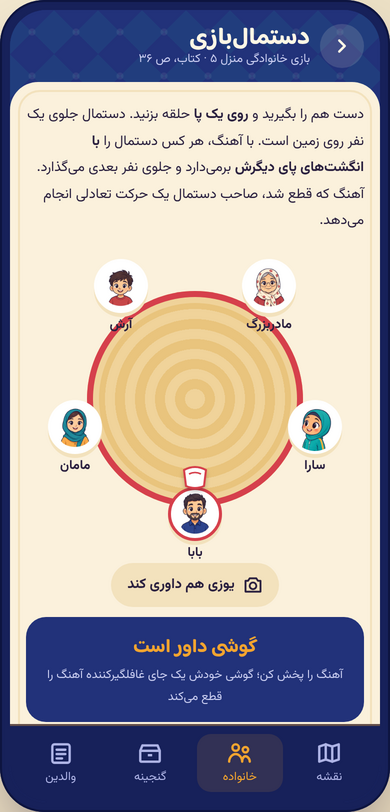
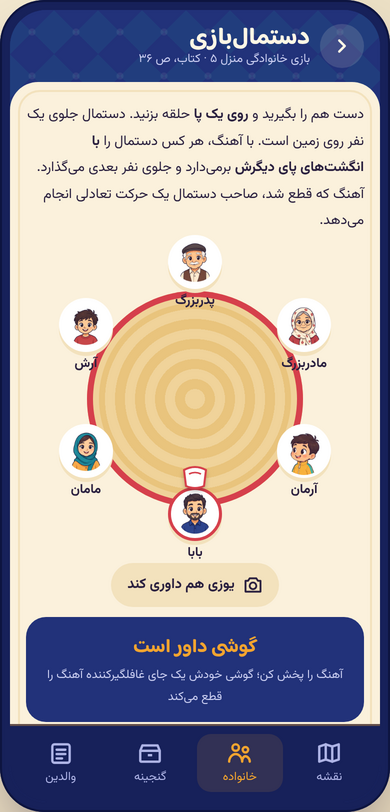
Every drawn character now has a place in the game
- Tapping any khan on the map opens its guardian: proud for a khan
  already passed, challenging for one still closed, with its line.
- Reward: the child's own hero cheers beside Yuzi; comfort: the hero,
  tired, beside a comforting Yuzi.
- Grandpa joins the family circle.
- Yuzi's cheer, talk and comfort images follow his growth stage, so the
  young and grown sheets show once the child gets that far.

All 58 cut images are now referenced (stage-2/3 Yuzi and the guardians'
proud poses appear as the child progresses).

Claude-Session: https://claude.ai/code/session_011aGjsNXPyQZkXG4jDbxjmb

diff --git a/prototype/index.html b/prototype/index.html
@@ -367,6 +367,19 @@ button{font:inherit;color:inherit}
 .pose.withcam{flex-wrap:wrap}
 .private{font-size:11.5px;color:#c9cdf0;text-align:center;margin:-4px 0 0}
 
+/* ---------- guardian card + pairs ---------- */
+.gcard{position:absolute;inset:0;z-index:15;background:rgba(23,33,90,.9);display:flex;align-items:center;justify-content:center;padding:20px}
+.gcard > div{background:var(--paper);color:var(--ink);border-radius:28px;padding:18px 18px 20px;width:100%;max-width:320px;display:flex;flex-direction:column;align-items:center;gap:10px;text-align:center;box-shadow:0 8px 0 var(--paper-2)}
+.gcard img{width:190px;height:190px;object-fit:contain;margin-top:-70px;filter:drop-shadow(0 8px 10px rgba(0,0,0,.25))}
+.gcard h3{margin:0;font-family:var(--f-display);font-size:24px;line-height:1.2}
+.gcard h3 small{display:block;font-family:var(--f-body);font-size:12px;font-weight:500;color:var(--ink-soft)}
+.gcard p{margin:0;font-size:15px;line-height:1.8}
+.gcard .tag{font-size:12px;font-weight:700;padding:3px 10px;border-radius:var(--r-pill);background:var(--paper-2)}
+.gcard .tag.done{background:var(--saffron)}
+.pair{display:flex;align-items:flex-end;justify-content:center;gap:4px}
+.pair img{width:130px;height:130px;object-fit:contain}
+.comfort .pair img{width:130px;height:130px}
+
 /* ---------- hello ---------- */
 .hello{min-height:100%;display:flex;flex-direction:column;align-items:center;gap:14px;padding:22px 18px 28px;text-align:center}
 .hello h2{margin:0;font-family:var(--f-display);font-size:30px;color:var(--saffron);line-height:1.2}
@@ -520,10 +533,10 @@ button{font:inherit;color:inherit}
             </div>
           </div>
         </div>
-        <div class="comfort" id="comfort" hidden><img src="img/yuzi-1-comfort.webp" alt=""><p>اشکال ندارد! هر بار که تمرین کنی، آسانتر میشود.</p></div>
+        <div class="comfort" id="comfort" hidden><div class="pair"><img id="comfortKid" src="img/girl-tired.webp" alt=""><img id="comfortYuzi" src="img/yuzi-1-comfort.webp" alt=""></div><p>اشکال ندارد! هر بار که تمرین کنی، آسانتر میشود.</p></div>
         <div class="reward" id="reward" hidden>
           <canvas id="confetti"></canvas>
-          <img src="img/yuzi-1-cheer.webp" alt="" class="reward-yuzi" id="rewardImg">
+          <div class="pair"><img id="rewardKid" src="img/girl-cheer.webp" alt="" class="reward-yuzi"><img src="img/yuzi-1-cheer.webp" alt="" class="reward-yuzi" id="rewardImg"></div>
           <h3 id="rewardTitle">آفرین پهلوان!</h3>
           <div class="big-torches" id="bigTorches" aria-hidden="true"></div>
           <p id="rewardText">مشعل روز دوم روشن شد. یک روز دیگر تا گذشتن از پلِ لرزان.</p>
@@ -621,6 +634,13 @@ button{font:inherit;color:inherit}
         </div>
       </section>
 
+      <div class="gcard" id="gcard" hidden role="dialog" aria-modal="true" aria-labelledby="gTitle"><div>
+        <img id="gImg" src="" alt="">
+        <span class="tag" id="gTag"></span>
+        <h3 id="gTitle"></h3>
+        <p id="gText"></p>
+        <button class="cta gold" id="gClose" style="width:100%">باشه!</button>
+      </div></div>
       <nav class="nav" aria-label="بخشها">
         <button data-go="map" aria-current="page"><svg viewBox="0 0 24 24" fill="none" stroke="currentColor" stroke-width="2.2" stroke-linecap="round" stroke-linejoin="round"><path d="M9 4L3 6v14l6-2 6 2 6-2V4l-6 2z"/><path d="M9 4v14M15 6v14"/></svg>نقشه</button>
         <button data-go="family"><svg viewBox="0 0 24 24" fill="none" stroke="currentColor" stroke-width="2.2" stroke-linecap="round"><circle cx="8" cy="7" r="3"/><circle cx="17" cy="9" r="2.5"/><path d="M2 20c0-4 3-7 6-7s6 3 6 7M14 20c0-3 1.5-5 3-5s4 2 4 5"/></svg>خانواده</button>
@@ -693,6 +713,8 @@ function voice(id){
 }
 
 /* ---------- data from the book ---------- */
+const GUARD_NAMES = {rooster:'خروسِ سحر', gazelle:'آهوی تیزپا', stork:'لکلکِ نگهبانِ پل', cat:'گربهٔ ایرانی', ibex:'بزِ کوهی', rakhsh:'رخش', simorgh:'سیمرغ'};
+const GUARD_LINES = {rooster:'صاف بایست، بدن را بیدار کن!', gazelle:'بدو، بپر، تیزپا شو!', stork:'روی یک پا بایست و نیفت!', cat:'بدنت را مثلِ من نرم و کش بده!', ibex:'توپ را بگیر و با پا هدایتش کن!', rakhsh:'قلبت را قوی کن و با من بدو!', simorgh:'به جشنِ بازیهای سرزمینم خوش آمدی!'};
 const KHANS = [
   {name:'بیدارِ بدن', lessons:['درک حرکت','وضعیتهای بدنی درست'], icon:'sun', guard:'rooster'},
   {name:'دشتِ تیزپاها', lessons:['راه رفتن، دویدن، پریدن','بدن قوی'], icon:'run', guard:'gazelle'},
@@ -763,6 +785,7 @@ const kidName = () => (state.profile && state.profile.name) || 'قهرمان';
 const khansPassed = () => CURRENT;
 const yuziStage = () => khansPassed() >= 7 ? 3 : khansPassed() >= 3 ? 2 : 1;
 const YUZI_NAMES = ['','تولهیوز','یوزِ جوان','یوزِ تیزپا'];
+const yz = pose => `img/yuzi-${['idle','cheer','talk','comfort'].includes(pose) ? yuziStage() : 1}-${pose}.webp`;
 const doneDays = () => state.days.filter(Boolean).length;
 const practicedToday = () => state.days.some(d => d && d.date === dayKey());
 const secs = n => fa(n.toFixed(1)).replace('.', '٫');
@@ -798,7 +821,7 @@ function drawMap(){
     b.innerHTML = `<span class="medal"><span class="num">${fa(i+1)}</span><img src="img/${k.guard}-greet.webp" alt="">${i>CURRENT?`<span class="lock">${LOCK}</span>`:''}</span>
       <span class="label">${k.name}</span><span class="sub">${k.lessons.join(' · ')}</span>`;
     if(i===CURRENT) b.addEventListener('click', ()=>go('khan'));
-    else b.addEventListener('click', ()=>flashNote(i));
+    else b.addEventListener('click', ()=>{ flashNote(i); meetGuardian(i); });
     map.appendChild(b);
   });
   const y = document.createElement('div');
@@ -836,6 +859,17 @@ $('#playTile').addEventListener('click', ()=>{
   if(practicedToday() || doneDays()>=3){ sfx('sleep'); voice('sleep'); const t=$('#playTile'); t.style.animation='shake .35s'; setTimeout(()=>t.style.animation='',400); return; }
   go('ex');
 });
+
+function meetGuardian(i){
+  const k = KHANS[i], passed = i < CURRENT;
+  $('#gImg').src = `img/${k.guard}-${passed ? 'proud' : 'challenge'}.webp`; $('#gImg').alt = GUARD_NAMES[k.guard];
+  $('#gTag').textContent = passed ? 'گذشتی!' : 'هنوز بسته'; $('#gTag').classList.toggle('done', passed);
+  $('#gTitle').innerHTML = `${GUARD_NAMES[k.guard]}<small>خوانِ ${fa(i+1)}: ${k.name} · ${k.lessons.join('، ')}</small>`;
+  $('#gText').textContent = passed ? `این خوان را گذشتی، ${kidName()}! من به تو افتخار میکنم.` : `«${GUARD_LINES[k.guard]}» وقتی خوانِ قبلی را بگذرانی، اینجا منتظرت هستم.`;
+  $('#gcard').hidden = false; sfx(passed ? 'star' : 'soft'); $('#gClose').focus();
+}
+$('#gClose').addEventListener('click', ()=>{ $('#gcard').hidden = true; sfx('click'); });
+$('#gcard').addEventListener('click', e=>{ if(e.target.id === 'gcard') $('#gcard').hidden = true; });
 
 /* ---------- navigation ---------- */
 const NAV_OF = {hello:'map', map:'map', khan:'map', ex:'map', story:'map', record:'map', family:'family', treasure:'treasure', parents:'parents'};
@@ -939,7 +973,7 @@ $$('#feel [data-feel]').forEach(b=> b.addEventListener('click', ()=>{
   feelings[mi] = +b.dataset.feel;
   $('#feel').hidden = true;
   sfx('click');
-  if(feelings[mi]===0){ sfx('soft'); voice('comfort'); $('#comfort').hidden = false; setTimeout(()=>{ $('#comfort').hidden = true; nextMove(); }, 2200); }
+  if(feelings[mi]===0){ sfx('soft'); voice('comfort'); $('#comfortKid').src = `img/${kid()}-tired.webp`; $('#comfortYuzi').src = yz('comfort'); $('#comfort').hidden = false; setTimeout(()=>{ $('#comfort').hidden = true; nextMove(); }, 2200); }
   else nextMove();
 }));
 function finishDay(){
@@ -949,7 +983,8 @@ function finishDay(){
   save(); renderTorches();
   const lit = doneDays(), crossed = lit>=3;
   $('#bigTorches').innerHTML = [0,1,2].map(i=> torch(i<lit, i===lit-1 ? 'new' : '')).join('');
-  $('#rewardImg').src = crossed ? 'img/stork-proud.webp' : 'img/yuzi-1-cheer.webp';
+  $('#rewardImg').src = crossed ? 'img/stork-proud.webp' : yz('cheer');
+  $('#rewardKid').src = `img/${kid()}-cheer.webp`;
   $('#rewardTitle').textContent = crossed ? 'از پلِ لرزان گذشتی!' : 'آفرین پهلوان!';
   $('#rewardText').textContent = crossed ? 'هر سه مشعل روشن شد. لکلک به تو افتخار میکند و منزلِ «زندگی فعال» باز شد.'
     : `مشعلِ روزِ ${['اول','دوم','سوم'][lit-1]} روشن شد. ${lit===2?'یک روزِ دیگر':'دو روزِ دیگر'} تا گذشتن از پلِ لرزان. فردا دوباره بیا!`;
@@ -973,7 +1008,7 @@ function confetti(){
 }
 
 /* ---------- family: the phone is the music referee ---------- */
-const PLAYERS = [{n:'بابا',img:'dad'},{n:'قهرمان',img:'girl-idle',kid:1},{n:'مادربزرگ',img:'grandma'},{n:'آرش',img:'sibling'},{n:'مامان',img:'mom'}];
+const PLAYERS = [{n:'بابا',img:'dad'},{n:'قهرمان',img:'girl-idle',kid:1},{n:'مادربزرگ',img:'grandma'},{n:'پدربزرگ',img:'grandpa'},{n:'آرش',img:'sibling'},{n:'مامان',img:'mom'}];
 function syncPlayers(){ PLAYERS[1].n = kidName(); PLAYERS[1].img = `${kid()}-idle`; }
 const CHALLENGES = ['مثل لکلک روی یک پا بایست و تا ده بشمار','روی یک پا بایست و دستهایت را مثل بال باز کن','روی یک پا بایست و چشمهایت را تا پنج ببند','روی پنجهٔ پا سه قدمِ آرام بردار'];
 let holder = 0, playing = false, stepT = null, stopT = null, noteT = null;
